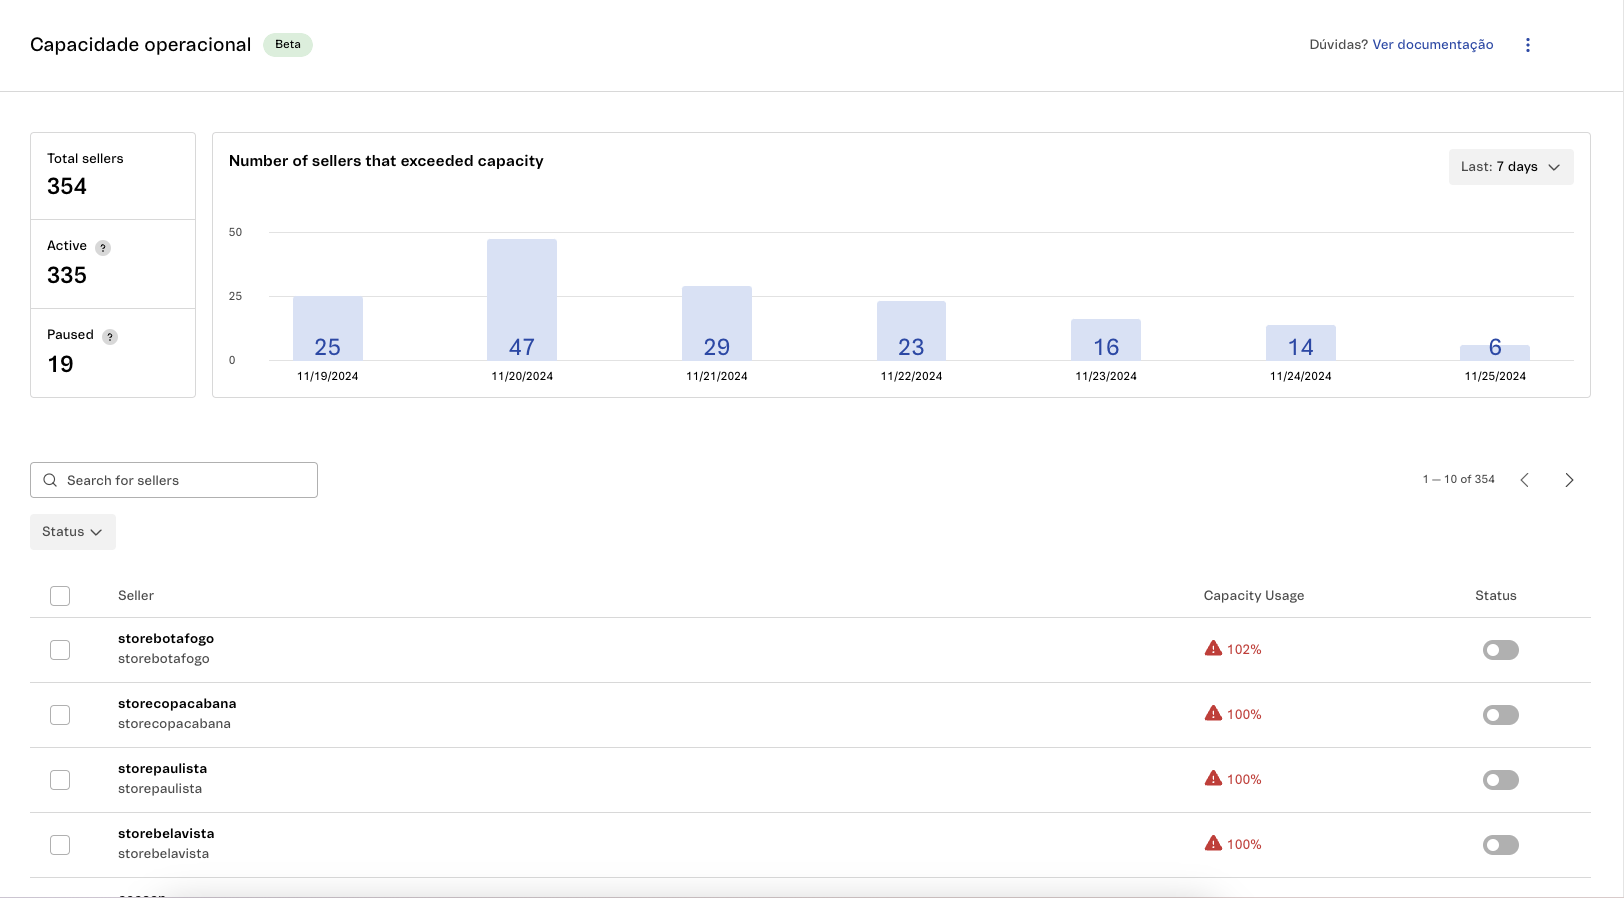
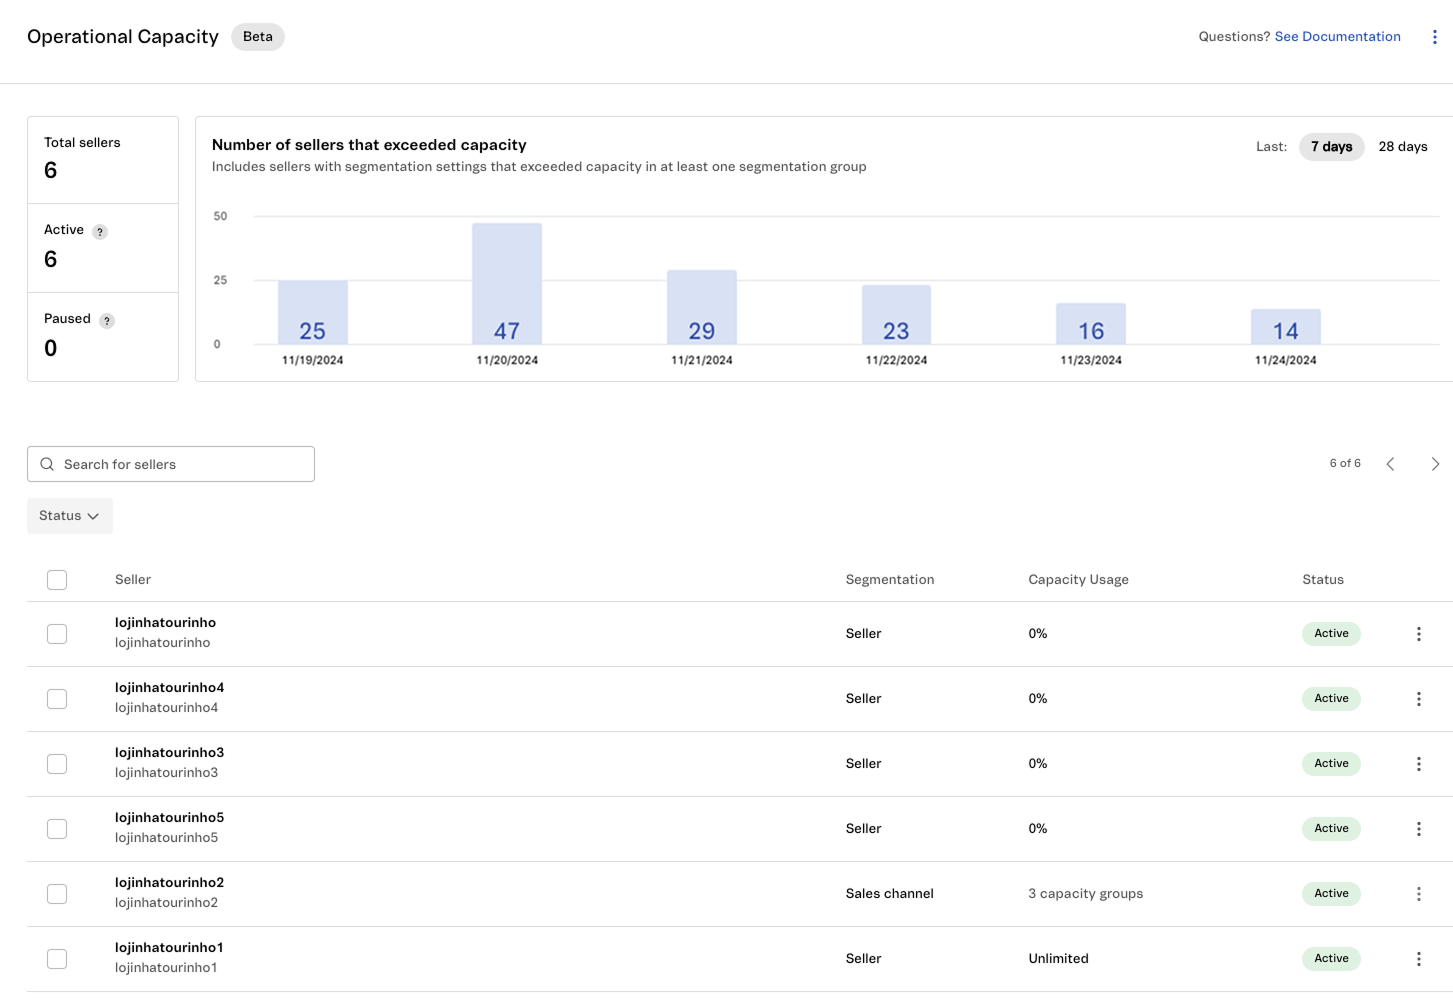
chore: add and update images EN

diff --git a/docs/en/tutorials/beta/shipping-beta/operational-capacity-beta.md b/docs/en/tutorials/beta/shipping-beta/operational-capacity-beta.md
@@ -49,7 +49,7 @@ If you want to stop using the feature, you can [disable Operational capacity (Be
 
 In the VTEX Admin, go to **Shipping > Operational capacity**, or type **Operational capacity** in the search bar to see the following page:
 
-![operational_capacity_image_1_PT](https://cdn.statically.io/gh/vtexdocs/help-center-content/refs/heads/main/docs/pt/tutorials/beta/envio-beta/capacidade-operacional-beta_1.png)
+![operational_capacity_image_1_EN](https://cdn.statically.io/gh/vtexdocs/help-center-content/refs/heads/main/docs/en/tutorials/beta/shipping-beta/operational-capacity-beta_1.png)
 
 > ⚠️ The interface will display the sellers that are part of your operation, previously configured by our team. To add a new seller, contact [our Support](https://support.vtex.com/hc/en-us/requests).
 